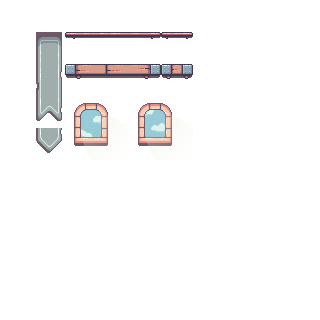
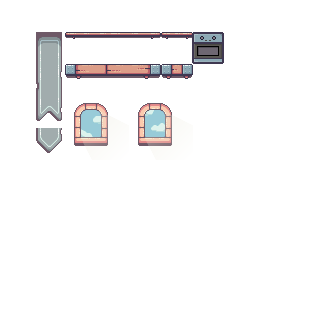
Revamp level1, and change texture for drop-off point

Changed region(s): [[0.5938, 0.0938, 0.7188, 0.2188]]

diff --git a/src/utils/HelpMethods.java b/src/utils/HelpMethods.java
@@ -22,8 +22,7 @@ public class HelpMethods {
 	    int terrainValue = lvlData.terrain[yIndex][xIndex];
 	    int foregroundValue = lvlData.foreground[yIndex][xIndex];
 
-	    if (foregroundValue == 13) return true;
-	    // Here's the fix: 
+
 	    return terrainValue != 0;
 	}
 
